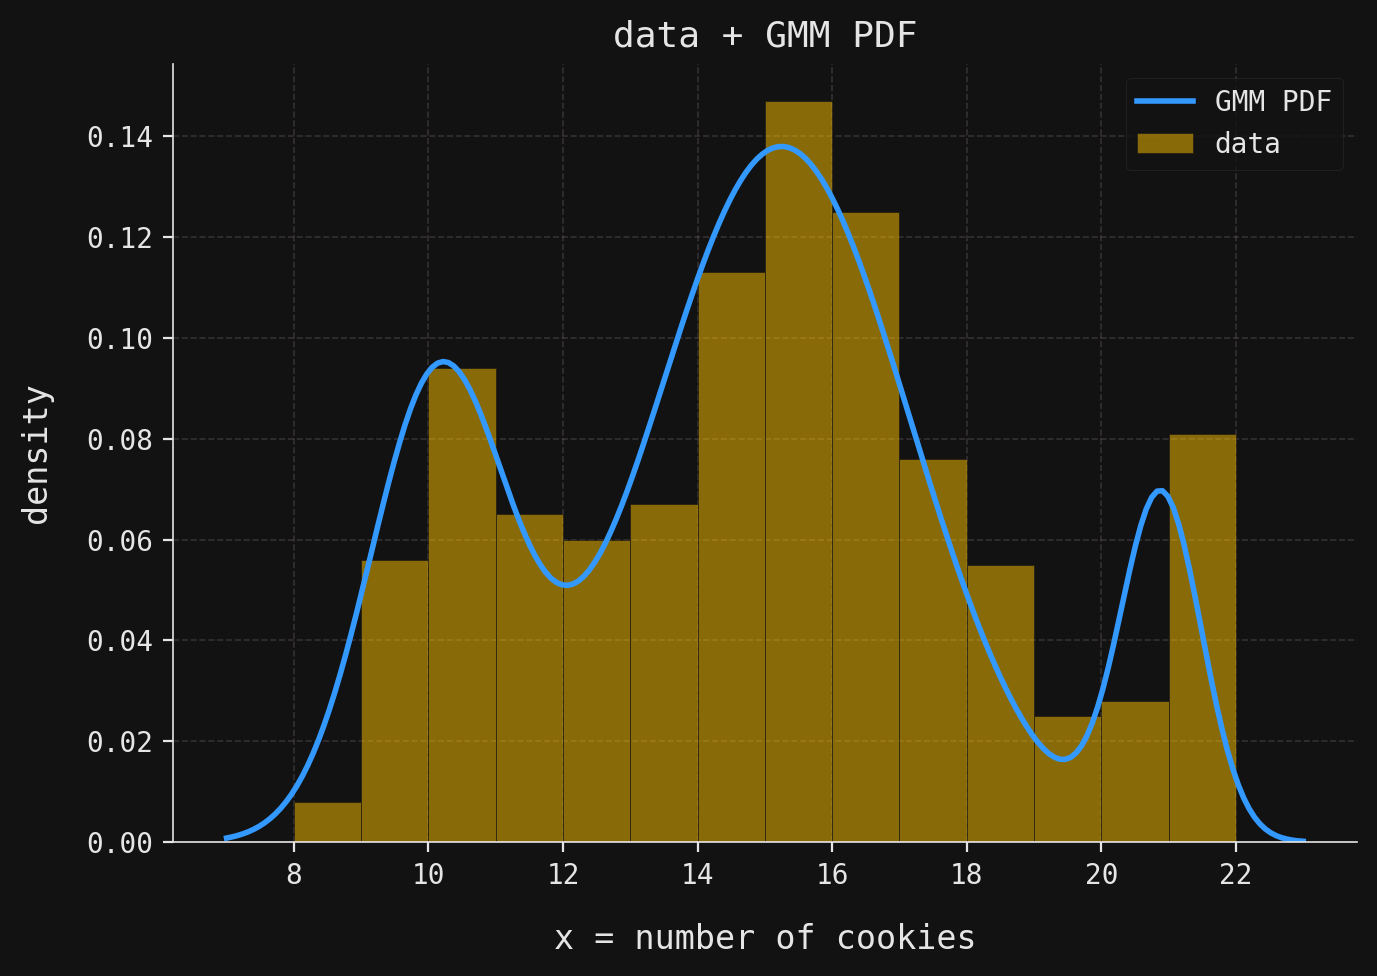
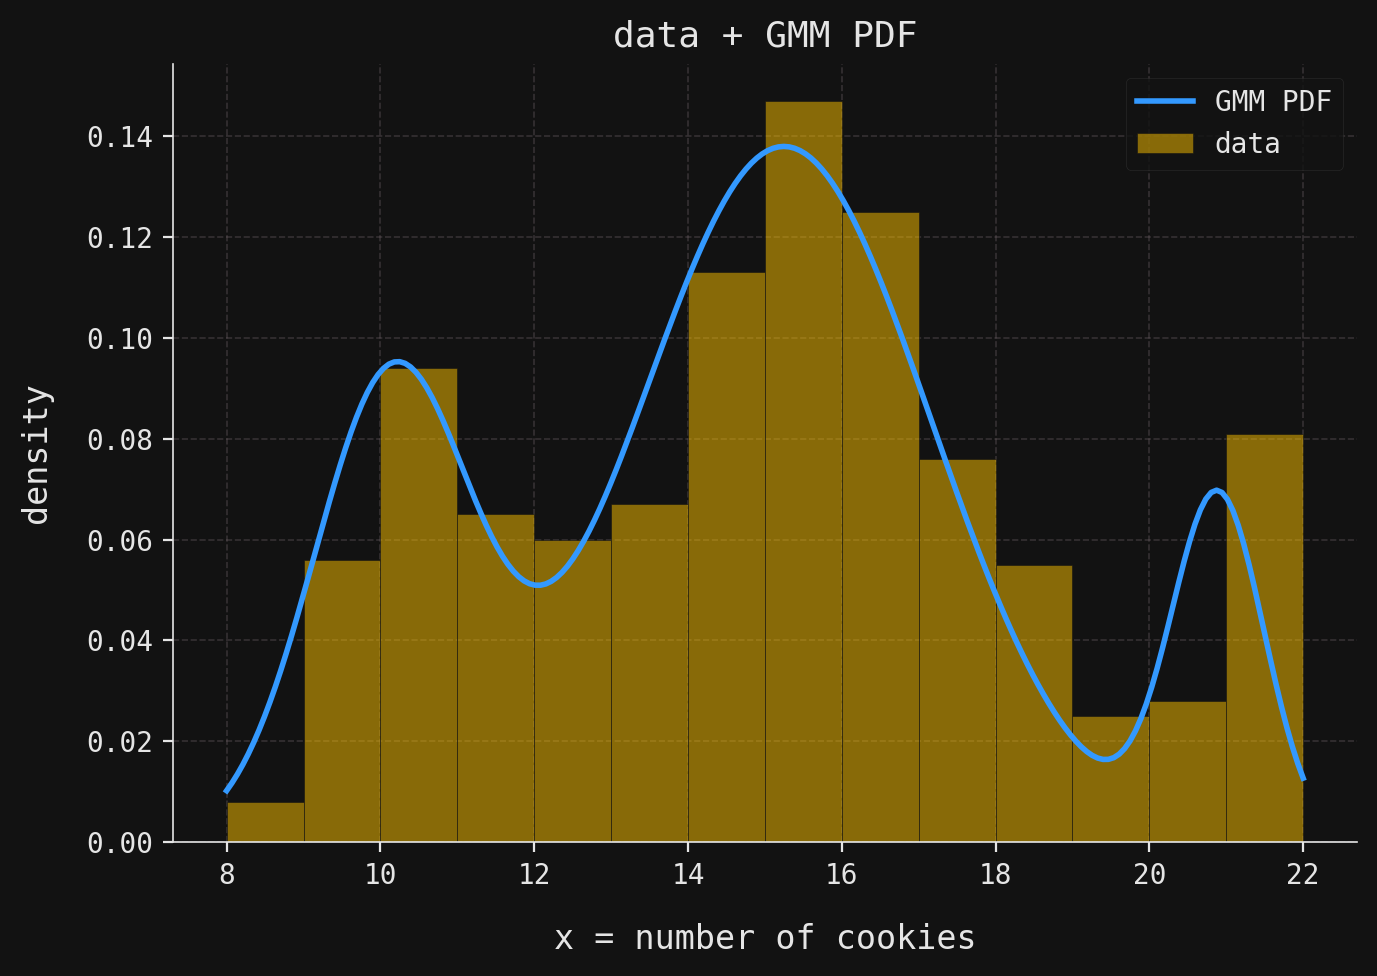
Built site for gh-pages

diff --git a/posts/mixture/index.html b/posts/mixture/index.html
@@ -66,7 +66,7 @@ pre > code.sourceCode > span > a:first-child::before { text-decoration: underlin
 <script src="../../site_libs/quarto-search/fuse.min.js"></script>
 <script src="../../site_libs/quarto-search/quarto-search.js"></script>
 <meta name="quarto:offset" content="../../">
-<link href="../../img/fav-new.png" rel="icon" type="image/png">
+<link href="../../img/fav.png" rel="icon" type="image/png">
 <script src="../../site_libs/quarto-html/quarto.js" type="module"></script>
 <script src="../../site_libs/quarto-html/tabsets/tabsets.js" type="module"></script>
 <script src="../../site_libs/quarto-html/axe/axe-check.js" type="module"></script>
@@ -233,8 +233,8 @@ pre > code.sourceCode > span > a:first-child::before { text-decoration: underlin
 <p>You’re a data scientist at a cookie convention. What do you do? Survey the participants and fit a Gaussian mixture model, of course. 🍪 😋</p>
 <section id="exploratory-cookie-analysis" class="level1">
 <h1>Exploratory cookie analysis</h1>
-<p>You surveyed 1,000 cookie convention attendees to find out just how many cookies they could devour in a single day. Naturally, being the conscientious data scientist you are, you loaded the results into a <code>NumPy</code> array and fired up <code>Python</code> to crunch some summary statistics:</p>
-<div id="1471da1b" class="cell" data-execution_count="2">
+<p>You surveyed 1,000 cookie convention attendees to find out just how many cookies they could devour in a single day. Naturally, being the conscientious data scientist you are, you fired up <code>Python</code> and loaded the results into a <code>NumPy</code> array to crunch some summary statistics:</p>
+<div id="359e7cca" class="cell" data-execution_count="2">
 <details class="code-fold">
 <summary>Code</summary>
 <div class="code-copy-outer-scaffold"><div class="sourceCode cell-code" id="cb1"><pre class="sourceCode python code-with-copy"><code class="sourceCode python"><span id="cb1-1"><a href="#cb1-1" aria-hidden="true" tabindex="-1"></a>data <span class="op">=</span> np.load(<span class="st">"cookie_data.npy"</span>)</span>
@@ -253,7 +253,7 @@ The data mean is 14.63, while the standard deviation is 3.42.</code></pre>
 </div>
 </div>
 <p>Of course, every good data scientist wants to <em>see</em> the data, so you whip up a <code>Seaborn</code> histogram to get the full cookie picture:</p>
-<div id="b980e399" class="cell" data-execution_count="3">
+<div id="07ae1ccd" class="cell" data-execution_count="3">
 <details class="code-fold">
 <summary>Code</summary>
 <div class="code-copy-outer-scaffold"><div class="sourceCode cell-code" id="cb3"><pre class="sourceCode python code-with-copy"><code class="sourceCode python"><span id="cb3-1"><a href="#cb3-1" aria-hidden="true" tabindex="-1"></a>sns.histplot(data<span class="op">=</span>data, color<span class="op">=</span>yellow, alpha<span class="op">=</span><span class="dv">1</span>, ec<span class="op">=</span>grey, zorder<span class="op">=</span><span class="dv">2</span>)</span>
@@ -274,7 +274,7 @@ The data mean is 14.63, while the standard deviation is 3.42.</code></pre>
 </section>
 <section id="fitting-a-gmm-in-scikit-learn" class="level1">
 <h1>Fitting a GMM in scikit-learn</h1>
-<div id="f4046efd" class="cell" data-execution_count="4">
+<div id="d9973270" class="cell" data-execution_count="4">
 <div class="code-copy-outer-scaffold"><div class="sourceCode cell-code" id="cb4"><pre class="sourceCode python code-with-copy"><code class="sourceCode python"><span id="cb4-1"><a href="#cb4-1" aria-hidden="true" tabindex="-1"></a><span class="im">from</span> sklearn.mixture <span class="im">import</span> GaussianMixture</span>
 <span id="cb4-2"><a href="#cb4-2" aria-hidden="true" tabindex="-1"></a></span>
 <span id="cb4-3"><a href="#cb4-3" aria-hidden="true" tabindex="-1"></a>X <span class="op">=</span> data.reshape(<span class="op">-</span><span class="dv">1</span>, <span class="dv">1</span>)</span>
@@ -296,11 +296,11 @@ Standard deviations: [1.02742606 0.60258656 1.91702651]
 Weights: [0.23449983 0.10264522 0.66285495]</code></pre>
 </div>
 </div>
-<div id="abd31142" class="cell" data-execution_count="5">
+<div id="4eff364a" class="cell" data-execution_count="5">
 <div class="code-copy-outer-scaffold"><div class="sourceCode cell-code" id="cb6"><pre class="sourceCode python code-with-copy"><code class="sourceCode python"><span id="cb6-1"><a href="#cb6-1" aria-hidden="true" tabindex="-1"></a><span class="kw">def</span> mixture_pdf(x):  </span>
 <span id="cb6-2"><a href="#cb6-2" aria-hidden="true" tabindex="-1"></a>  <span class="cf">return</span> <span class="bu">sum</span>([weight <span class="op">*</span> ss.norm(<span class="op">**</span>param).pdf(x) <span class="cf">for</span> weight, param <span class="kw">in</span> <span class="bu">zip</span>(weights, params)])</span>
 <span id="cb6-3"><a href="#cb6-3" aria-hidden="true" tabindex="-1"></a></span>
-<span id="cb6-4"><a href="#cb6-4" aria-hidden="true" tabindex="-1"></a>mesh <span class="op">=</span> np.linspace(<span class="dv">7</span>, <span class="dv">23</span>, num<span class="op">=</span><span class="dv">200</span>)</span>
+<span id="cb6-4"><a href="#cb6-4" aria-hidden="true" tabindex="-1"></a>mesh <span class="op">=</span> np.linspace(<span class="dv">8</span>, <span class="dv">22</span>, num<span class="op">=</span><span class="dv">200</span>)</span>
 <span id="cb6-5"><a href="#cb6-5" aria-hidden="true" tabindex="-1"></a></span>
 <span id="cb6-6"><a href="#cb6-6" aria-hidden="true" tabindex="-1"></a>sns.histplot(data<span class="op">=</span>data, color<span class="op">=</span>yellow, alpha<span class="op">=</span><span class="fl">0.5</span>, ec<span class="op">=</span>grey, zorder<span class="op">=</span><span class="dv">2</span>, stat<span class="op">=</span><span class="st">"density"</span>, label<span class="op">=</span><span class="st">"data"</span>)</span>
 <span id="cb6-7"><a href="#cb6-7" aria-hidden="true" tabindex="-1"></a>plt.plot(mesh, mixture_pdf(mesh), color<span class="op">=</span>blue, label<span class="op">=</span><span class="st">"GMM PDF"</span>)</span>

diff --git a/writings.html b/writings.html
@@ -30,7 +30,7 @@ ul.task-list li input[type="checkbox"] {
 <script src="site_libs/quarto-search/fuse.min.js"></script>
 <script src="site_libs/quarto-search/quarto-search.js"></script>
 <meta name="quarto:offset" content="./">
-<link href="./img/fav-new.png" rel="icon" type="image/png">
+<link href="./img/fav.png" rel="icon" type="image/png">
 <script src="site_libs/quarto-listing/list.min.js"></script>
 <script src="site_libs/quarto-listing/quarto-listing.js"></script>
 <script src="site_libs/quarto-html/quarto.js" type="module"></script>
@@ -381,7 +381,7 @@ Sep 25, 2025
 </a>
 </div>
 </div>
[2 lines of base64/hex data omitted]
 <div class="thumbnail"><a href="./posts/mixture/index.html" class="no-external">
 
 <img loading="lazy" src="./posts/mixture/thumbnail.png" class="thumbnail-image">

diff --git a/posts/shiny-clt/index.html b/posts/shiny-clt/index.html
@@ -66,7 +66,7 @@ pre > code.sourceCode > span > a:first-child::before { text-decoration: underlin
 <script src="../../site_libs/quarto-search/fuse.min.js"></script>
 <script src="../../site_libs/quarto-search/quarto-search.js"></script>
 <meta name="quarto:offset" content="../../">
-<link href="../../img/fav-new.png" rel="icon" type="image/png">
+<link href="../../img/fav.png" rel="icon" type="image/png">
 <script src="../../site_libs/quarto-html/quarto.js" type="module"></script>
 <script src="../../site_libs/quarto-html/tabsets/tabsets.js" type="module"></script>
 <script src="../../site_libs/quarto-html/axe/axe-check.js" type="module"></script>

diff --git a/posts/ein-dl/index.html b/posts/ein-dl/index.html
@@ -31,7 +31,7 @@ ul.task-list li input[type="checkbox"] {
 <script src="../../site_libs/quarto-search/fuse.min.js"></script>
 <script src="../../site_libs/quarto-search/quarto-search.js"></script>
 <meta name="quarto:offset" content="../../">
-<link href="../../img/fav-new.png" rel="icon" type="image/png">
+<link href="../../img/fav.png" rel="icon" type="image/png">
 <script src="../../site_libs/quarto-html/quarto.js" type="module"></script>
 <script src="../../site_libs/quarto-html/tabsets/tabsets.js" type="module"></script>
 <script src="../../site_libs/quarto-html/axe/axe-check.js" type="module"></script>

diff --git a/posts/pytorch-calc/index.html b/posts/pytorch-calc/index.html
@@ -31,7 +31,7 @@ ul.task-list li input[type="checkbox"] {
 <script src="../../site_libs/quarto-search/fuse.min.js"></script>
 <script src="../../site_libs/quarto-search/quarto-search.js"></script>
 <meta name="quarto:offset" content="../../">
-<link href="../../img/fav-new.png" rel="icon" type="image/png">
+<link href="../../img/fav.png" rel="icon" type="image/png">
 <script src="../../site_libs/quarto-html/quarto.js" type="module"></script>
 <script src="../../site_libs/quarto-html/tabsets/tabsets.js" type="module"></script>
 <script src="../../site_libs/quarto-html/axe/axe-check.js" type="module"></script>

diff --git a/posts/scipy-info/index.html b/posts/scipy-info/index.html
@@ -31,7 +31,7 @@ ul.task-list li input[type="checkbox"] {
 <script src="../../site_libs/quarto-search/fuse.min.js"></script>
 <script src="../../site_libs/quarto-search/quarto-search.js"></script>
 <meta name="quarto:offset" content="../../">
-<link href="../../img/fav-new.png" rel="icon" type="image/png">
+<link href="../../img/fav.png" rel="icon" type="image/png">
 <script src="../../site_libs/quarto-html/quarto.js" type="module"></script>
 <script src="../../site_libs/quarto-html/tabsets/tabsets.js" type="module"></script>
 <script src="../../site_libs/quarto-html/axe/axe-check.js" type="module"></script>

diff --git a/courses/25-fa-analysis.html b/courses/25-fa-analysis.html
@@ -30,7 +30,7 @@ ul.task-list li input[type="checkbox"] {
 <script src="../site_libs/quarto-search/fuse.min.js"></script>
 <script src="../site_libs/quarto-search/quarto-search.js"></script>
 <meta name="quarto:offset" content="../">
-<link href="../img/fav-new.png" rel="icon" type="image/png">
+<link href="../img/fav.png" rel="icon" type="image/png">
 <script src="../site_libs/quarto-html/quarto.js" type="module"></script>
 <script src="../site_libs/quarto-html/tabsets/tabsets.js" type="module"></script>
 <script src="../site_libs/quarto-html/axe/axe-check.js" type="module"></script>

diff --git a/courses/25-fa-calculus-ii.html b/courses/25-fa-calculus-ii.html
@@ -30,7 +30,7 @@ ul.task-list li input[type="checkbox"] {
 <script src="../site_libs/quarto-search/fuse.min.js"></script>
 <script src="../site_libs/quarto-search/quarto-search.js"></script>
 <meta name="quarto:offset" content="../">
-<link href="../img/fav-new.png" rel="icon" type="image/png">
+<link href="../img/fav.png" rel="icon" type="image/png">
 <script src="../site_libs/quarto-html/quarto.js" type="module"></script>
 <script src="../site_libs/quarto-html/tabsets/tabsets.js" type="module"></script>
 <script src="../site_libs/quarto-html/axe/axe-check.js" type="module"></script>

diff --git a/about.html b/about.html
@@ -30,7 +30,7 @@ ul.task-list li input[type="checkbox"] {
 <script src="site_libs/quarto-search/fuse.min.js"></script>
 <script src="site_libs/quarto-search/quarto-search.js"></script>
 <meta name="quarto:offset" content="./">
-<link href="./img/fav-new.png" rel="icon" type="image/png">
+<link href="./img/fav.png" rel="icon" type="image/png">
 <script src="site_libs/quarto-html/quarto.js" type="module"></script>
 <script src="site_libs/quarto-html/tabsets/tabsets.js" type="module"></script>
 <script src="site_libs/quarto-html/axe/axe-check.js" type="module"></script>

diff --git a/index.html b/index.html
@@ -30,7 +30,7 @@ ul.task-list li input[type="checkbox"] {
 <script src="site_libs/quarto-search/fuse.min.js"></script>
 <script src="site_libs/quarto-search/quarto-search.js"></script>
 <meta name="quarto:offset" content="./">
-<link href="./img/fav-new.png" rel="icon" type="image/png">
+<link href="./img/fav.png" rel="icon" type="image/png">
 <script src="site_libs/quarto-html/quarto.js" type="module"></script>
 <script src="site_libs/quarto-html/tabsets/tabsets.js" type="module"></script>
 <script src="site_libs/quarto-html/axe/axe-check.js" type="module"></script>
